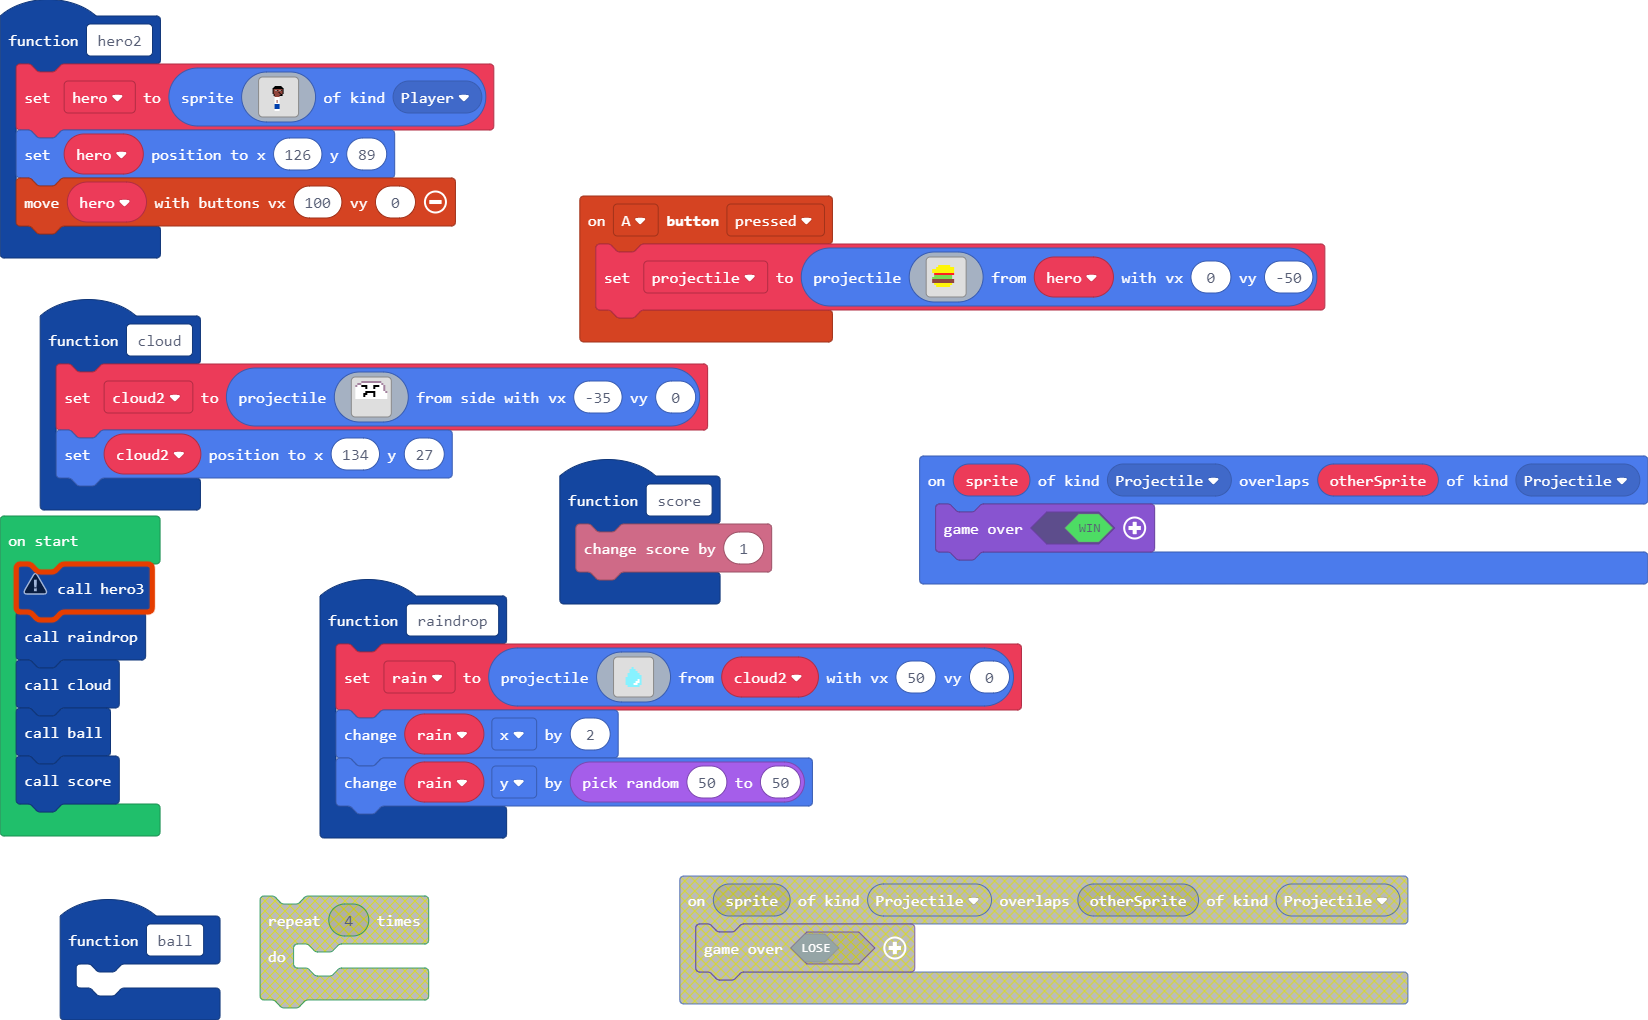
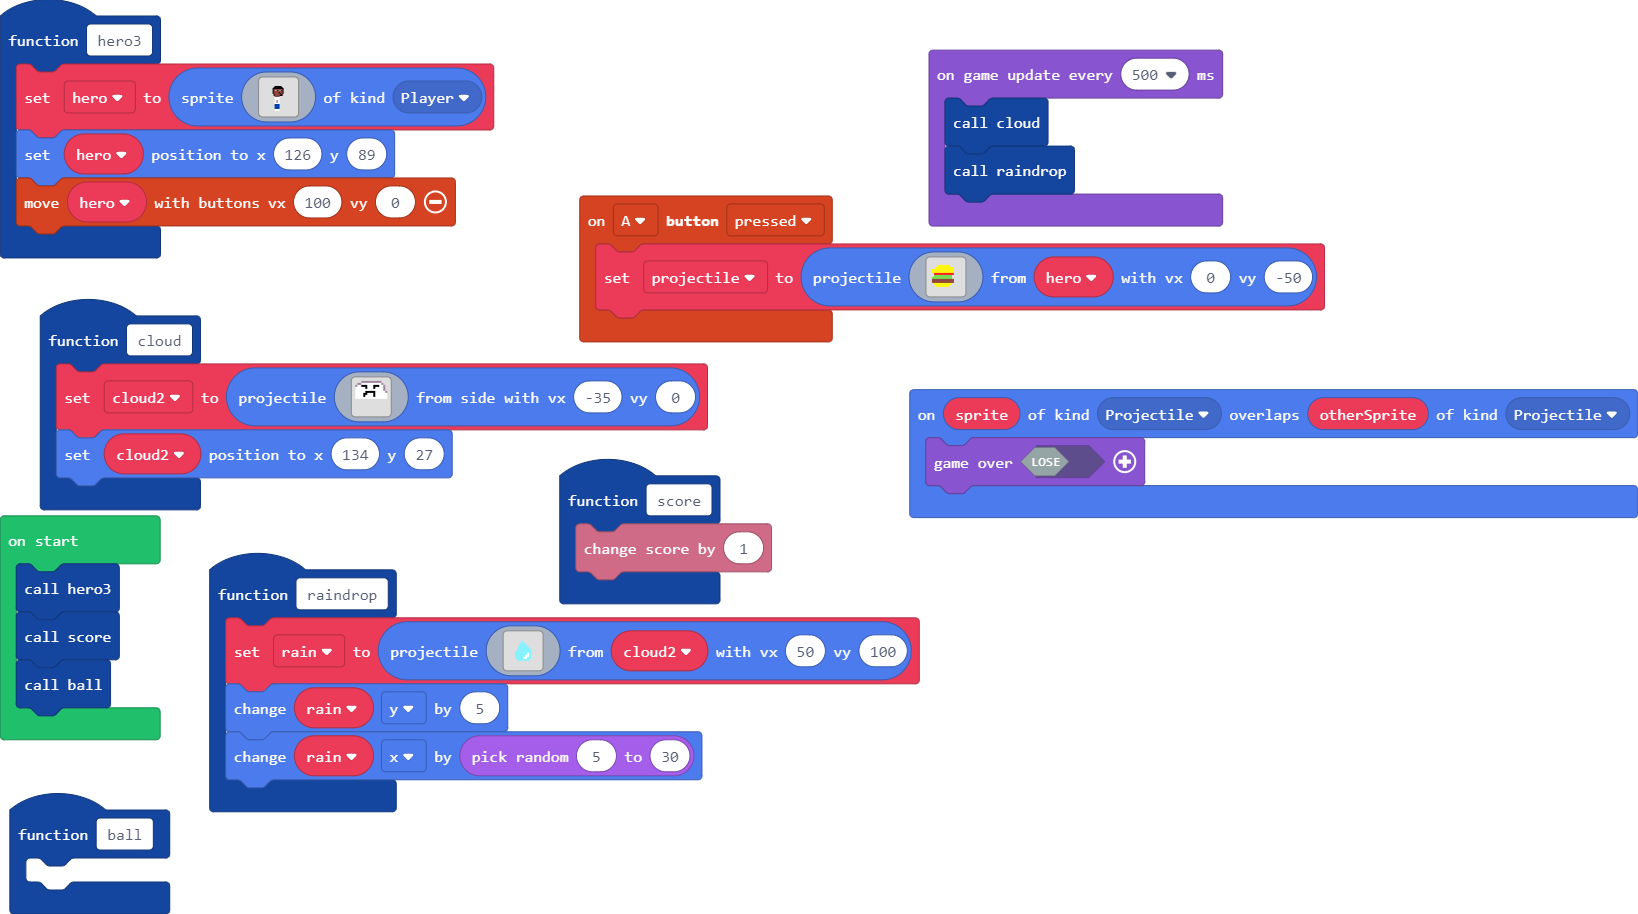
Update main.blocks, main.ts

diff --git a/main.ts b/main.ts
@@ -1,44 +1,6 @@
 namespace SpriteKind {
     export const Object = SpriteKind.create()
 }
-function hero2 () {
-    hero = sprites.create(img`
-. . . . . . . . . . . . . . . . . . . . . . . . . . . . . . . . 
-. . . . . . . . . . . . . . . . . . . . . . . . . . . . . . . . 
-. . . . . . . . . . . . . . . . . . . . . . . . . . . . . . . . 
-. . . . . . . . . . . . . . . . . . . . . . . . . . . . . . . . 
-. . . . . . . . . . . . . . . . . . . . . . . . . . . . . . . . 
-. . . . . . . . . . . . f f f f f f f . . . . . . . . . . . . . 
-. . . . . . . . . . . f f f f f f f f f . . . . . . . . . . . . 
-. . . . . . . . . . f f f f f f f f f f f . . . . . . . . . . . 
-. . . . . . . . . . f e e e e e e e e e f . . . . . . . . . . . 
-. . . . . . . . . . f e e 1 f e e 1 f e f . . . . . . . . . . . 
-. . . . . . . . . . f e e e e e e e e e f . . . . . . . . . . . 
-. . . . . . . . . . f e e e e e f e e e f . . . . . . . . . . . 
-. . . . . . . . . . f e e e e e e f e e f . . . . . . . . . . . 
-. . . . . . . . . . . f e e e e e e f f . . . . . . . . . . . . 
-. . . . . . . . . . . f e e e e e f f f . . . . . . . . . . . . 
-. . . . . . . . . . . . e e e e e . . . . . . . . . . . . . . . 
-. . . . . . . . . . . . 1 1 1 1 1 . . . . . . . . . . . . . . . 
-. . . . . . . . . . . . 1 1 1 1 1 . . . . . . . . . . . . . . . 
-. . . . . . . . . . . . 1 1 1 1 1 . . . . . . . . . . . . . . . 
-. . . . . . . . . . . . 1 1 e 1 1 . . . . . . . . . . . . . . . 
-. . . . . . . . . . . . 1 1 e 1 1 . . . . . . . . . . . . . . . 
-. . . . . . . . . . . . 1 1 e 1 1 . . . . . . . . . . . . . . . 
-. . . . . . . . . . . . 1 1 1 1 1 . . . . . . . . . . . . . . . 
-. . . . . . . . . . . . 8 8 8 8 8 . . . . . . . . . . . . . . . 
-. . . . . . . . . . . . 8 8 8 8 8 . . . . . . . . . . . . . . . 
-. . . . . . . . . . . . 8 8 8 8 8 . . . . . . . . . . . . . . . 
-. . . . . . . . . . . . 8 8 8 8 8 . . . . . . . . . . . . . . . 
-. . . . . . . . . . . . 8 8 8 8 8 . . . . . . . . . . . . . . . 
-. . . . . . . . . . . . 1 1 1 1 1 . . . . . . . . . . . . . . . 
-. . . . . . . . . . . . 1 1 1 1 1 . . . . . . . . . . . . . . . 
-. . . . . . . . . . . . . . . . . . . . . . . . . . . . . . . . 
-. . . . . . . . . . . . . . . . . . . . . . . . . . . . . . . . 
-`, SpriteKind.Player)
-    hero.setPosition(126, 89)
-    controller.moveSprite(hero, 100, 0)
-}
 function cloud () {
     cloud2 = sprites.createProjectileFromSide(img`
 . . . b b b b b b b b b b . . . 
@@ -84,7 +46,7 @@ controller.A.onEvent(ControllerButtonEvent.Pressed, function () {
 `, hero, 0, -50)
 })
 sprites.onOverlap(SpriteKind.Projectile, SpriteKind.Projectile, function (sprite, otherSprite) {
-    game.over(true)
+    game.over(false)
 })
 function raindrop () {
     rain = sprites.createProjectileFromSprite(img`
@@ -104,19 +66,59 @@ function raindrop () {
 . . . . . . . . . . . . . . . . 
 . . . . . . . . . . . . . . . . 
 . . . . . . . . . . . . . . . . 
-`, cloud2, 50, 0)
-    rain.x += 2
-    rain.y += Math.randomRange(50, 50)
+`, cloud2, 50, 100)
+    rain.y += 5
+    rain.x += Math.randomRange(5, 30)
+}
+function hero3 () {
+    hero = sprites.create(img`
+. . . . . . . . . . . . . . . . . . . . . . . . . . . . . . . . 
+. . . . . . . . . . . . . . . . . . . . . . . . . . . . . . . . 
+. . . . . . . . . . . . . . . . . . . . . . . . . . . . . . . . 
+. . . . . . . . . . . . . . . . . . . . . . . . . . . . . . . . 
+. . . . . . . . . . . . . . . . . . . . . . . . . . . . . . . . 
+. . . . . . . . . . . . f f f f f f f . . . . . . . . . . . . . 
+. . . . . . . . . . . f f f f f f f f f . . . . . . . . . . . . 
+. . . . . . . . . . f f f f f f f f f f f . . . . . . . . . . . 
+. . . . . . . . . . f e e e e e e e e e f . . . . . . . . . . . 
+. . . . . . . . . . f e e 1 f e e 1 f e f . . . . . . . . . . . 
+. . . . . . . . . . f e e e e e e e e e f . . . . . . . . . . . 
+. . . . . . . . . . f e e e e e f e e e f . . . . . . . . . . . 
+. . . . . . . . . . f e e e e e e f e e f . . . . . . . . . . . 
+. . . . . . . . . . . f e e e e e e f f . . . . . . . . . . . . 
+. . . . . . . . . . . f e e e e e f f f . . . . . . . . . . . . 
+. . . . . . . . . . . . e e e e e . . . . . . . . . . . . . . . 
+. . . . . . . . . . . . 1 1 1 1 1 . . . . . . . . . . . . . . . 
+. . . . . . . . . . . . 1 1 1 1 1 . . . . . . . . . . . . . . . 
+. . . . . . . . . . . . 1 1 1 1 1 . . . . . . . . . . . . . . . 
+. . . . . . . . . . . . 1 1 e 1 1 . . . . . . . . . . . . . . . 
+. . . . . . . . . . . . 1 1 e 1 1 . . . . . . . . . . . . . . . 
+. . . . . . . . . . . . 1 1 e 1 1 . . . . . . . . . . . . . . . 
+. . . . . . . . . . . . 1 1 1 1 1 . . . . . . . . . . . . . . . 
+. . . . . . . . . . . . 8 8 8 8 8 . . . . . . . . . . . . . . . 
+. . . . . . . . . . . . 8 8 8 8 8 . . . . . . . . . . . . . . . 
+. . . . . . . . . . . . 8 8 8 8 8 . . . . . . . . . . . . . . . 
+. . . . . . . . . . . . 8 8 8 8 8 . . . . . . . . . . . . . . . 
+. . . . . . . . . . . . 8 8 8 8 8 . . . . . . . . . . . . . . . 
+. . . . . . . . . . . . 1 1 1 1 1 . . . . . . . . . . . . . . . 
+. . . . . . . . . . . . 1 1 1 1 1 . . . . . . . . . . . . . . . 
+. . . . . . . . . . . . . . . . . . . . . . . . . . . . . . . . 
+. . . . . . . . . . . . . . . . . . . . . . . . . . . . . . . . 
+`, SpriteKind.Player)
+    hero.setPosition(126, 89)
+    controller.moveSprite(hero, 100, 0)
 }
 function ball () {
 	
 }
 let rain: Sprite = null
+let hero: Sprite = null
 let projectile: Sprite = null
 let cloud2: Sprite = null
-let hero: Sprite = null
 hero3()
-raindrop()
-cloud()
-ball()
 score()
+ball()
+game.onUpdateInterval(500, function () {
+    cloud()
+    raindrop()
+})
